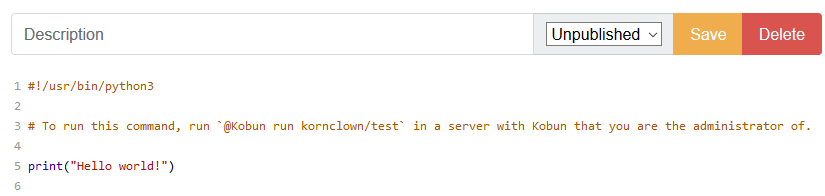
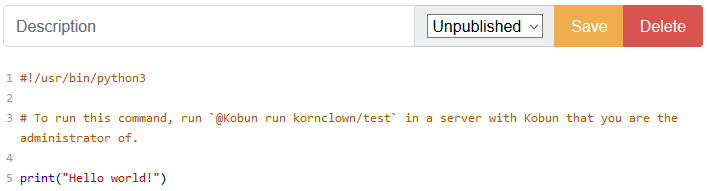
fixed images, improved buttons and structure

diff --git a/website/content/guides/scripting.md b/website/content/guides/scripting.md
@@ -4,8 +4,6 @@ title = "Scripting Guide"
 description = "Want to write your own Kobun commands? Here's a quick rundown."
 +++
 
-# Python Scripting Guide
-
 The easiest way to get started using Kobun, is through the online [editor](/editor). You'll need to login with your Discord account if you use the editor for the first time and register an username, make sure that it's all **lowercase** or else it won't work.
 
 After registration you should see a screen similar to this:
@@ -16,7 +14,7 @@ Now you're ready to get started.
 
 ## Creating your first script
 
-Creating your first script is as easy as picking a name in **lowercase** for your script and clicking <button type="button" class="btn btn-primary">Create</button>. If you script was successfully created, you should see the editor change to the default script as seen here:
+Creating your first script is as easy as picking a name in **lowercase** for your script and clicking <button type="button" class="btn btn-primary active">Create</button>. If you script was successfully created, you should see the editor change to the default script as seen here:
 
 ![Default script](/images/guide_default_script.png)
 
@@ -26,9 +24,9 @@ You can now already run this script if you copy the command shown in line 3. It 
 
 *If Kobun doesn't respond, he might not be able to read or write messages, in this case you should check the Discord channel permissions or give Kobun administrative rights.*
 
-As you can see from the response, Kobun will show anything that you've written to `stdout` via functions like `print`, inside an Discord embed along with your mention and showing you if the script ran successfully.
+As you can see from the response, Kobun will show anything that you've written to `stdout`, via functions like `print`, inside an Discord embed along with your mention and showing you if the script ran successfully.
 
-Now try to change that response to anything you like and see if Kobun responds differently, don't forget to **save your script** before calling it again using the <button type="button" class="btn btn-primary">Save</button> button in the top right corner.
+Now try to change that response to anything you like and see if Kobun responds differently, don't forget to **save your script** before calling it again using the <button type="button" class="btn btn-primary active">Save</button> button in the top right corner.
 
 ## Linking scripts
 
@@ -64,7 +62,7 @@ You always need to separate your chosen command and input with *space*, this spa
 
 Kobun provides each user with a limited amount of private storage located at `/mnt/private`, where you can store anything you'd like.
 
-To access this storage outside of your scripts you need to set a password first, by clicking <button type="button" class="btn btn-secondary">Account Info</button> next to your user name in the [editor](/editor) and scroll down to the password fields. After you've set your password you can log onto `https://storage.kobun.company` via any WebDAV client like [WinSCP](https://winscp.net/) using your user name and password.
+To access this storage outside of your scripts you need to set a password first, by clicking <button type="button" class="btn btn-secondary active" style="background-color: #fff;">Account Info</button> next to your user name in the [editor](/editor) and scroll down to the password fields. After you've set your password you can log onto `https://storage.kobun.company` via any WebDAV client like [WinSCP](https://winscp.net/) using your user name and chosen password.
 
 A good way to store data is inside a sqlite3 database as shown in [rfw/quote](https://kobun.company/scripts/view.html?rfw/quote) or [jacob/pixiepoints](https://kobun.life/scripts/view.html?jacob/pixiepoints).
 
